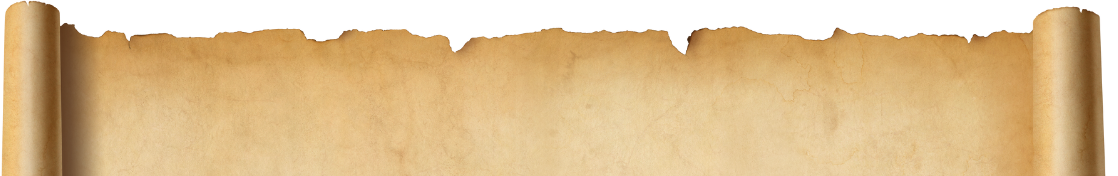
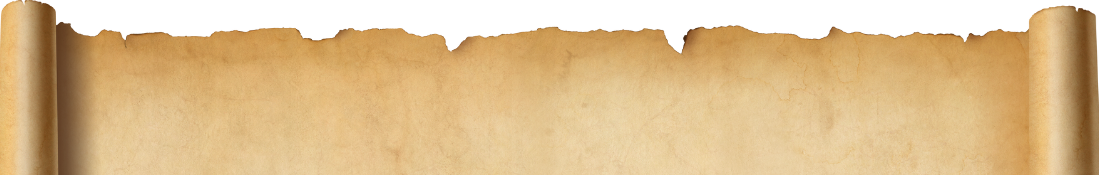
Updated assets

diff --git a/src/components/home/uiConstants.ts b/src/components/home/uiConstants.ts
@@ -2,4 +2,4 @@ export const CTA_BUTTON_WIDTH_PX = 203;
 export const CTA_BUTTON_HEIGHT_PX = 106;
 export const CTA_BOTTOM_INSET_PX = 56;
 
-export const NAV_ICON_SIZE_PX = 44;
+export const NAV_ICON_SIZE_PX = 55;
